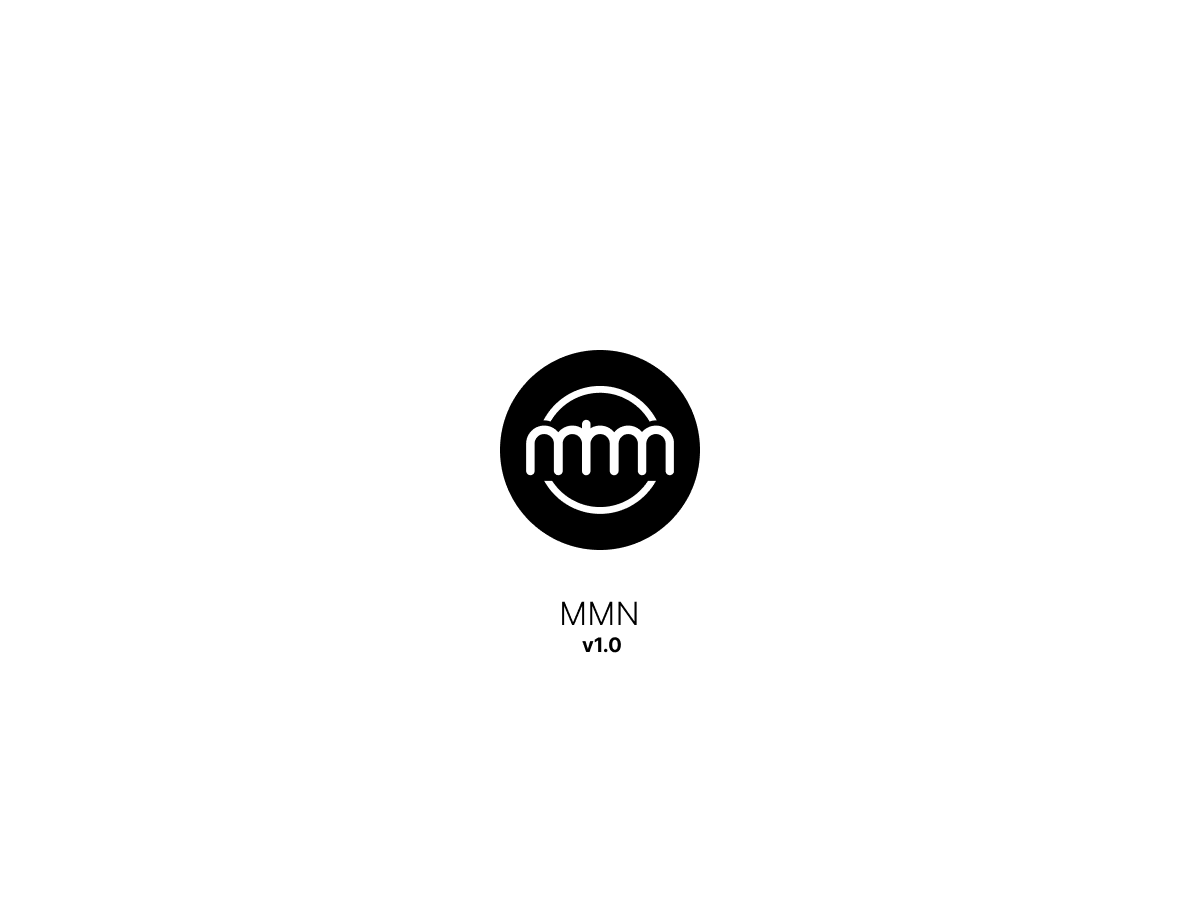
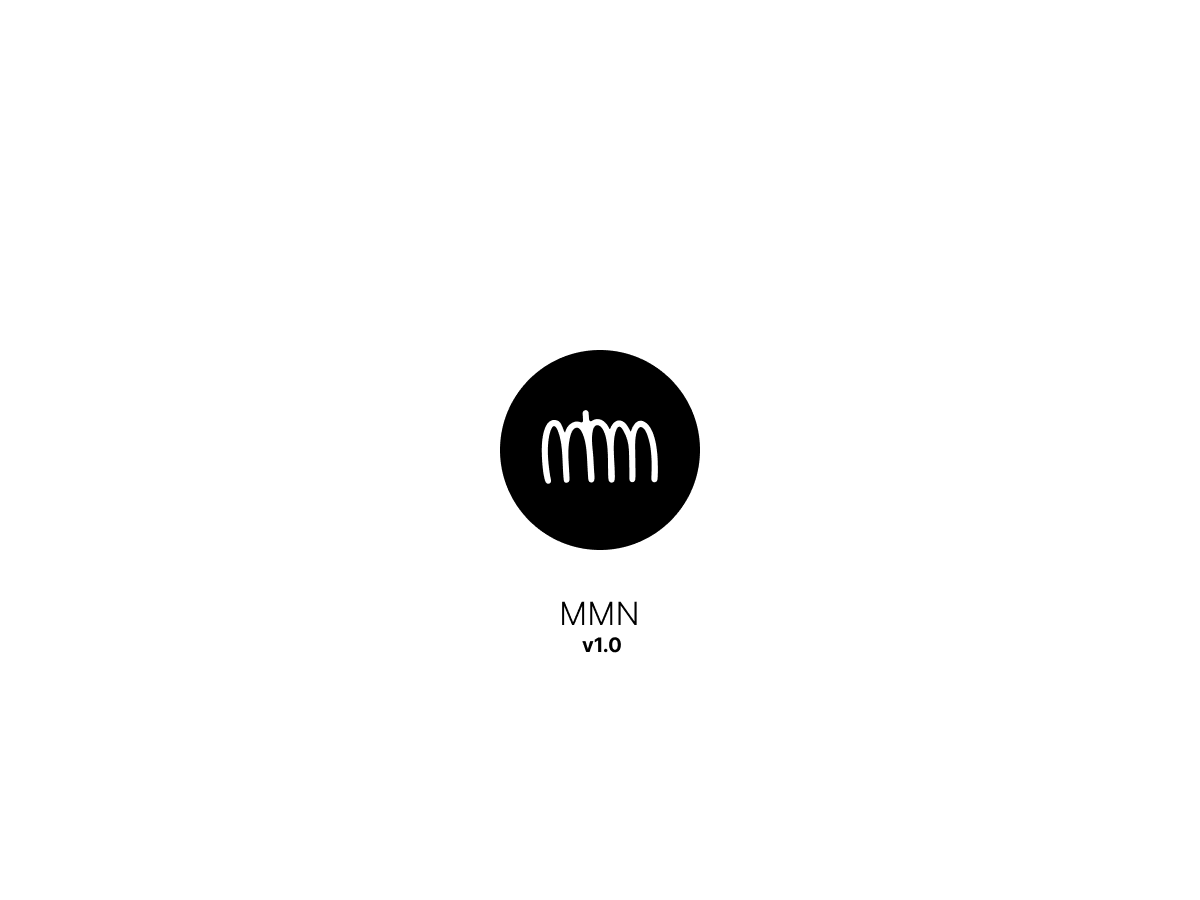
about me: finished

Changed region(s): [[0.4317, 0.4044, 0.5858, 0.5911]]

diff --git a/themes/mmn/assets/css/drop-down.css b/themes/mmn/assets/css/drop-down.css
@@ -1,0 +1,41 @@
+.drop-down-header {
+  display: flex;
+  align-items: center;
+  justify-content: space-between;
+  padding: 8px 0;
+  cursor: pointer;
+}
+
+.drop-down-icon {
+  position: relative;
+  display: block;
+  width: 16px;
+  height: 16px;
+}
+
+.drop-down-icon::before,
+.drop-down-icon::after {
+  content: "";
+  display: block;
+  background-color: var(--color-dark);
+  position: absolute;
+}
+
+.drop-down-icon::before {
+  width: 100%;
+  height: 1px;
+  top: 50%;
+  transform: translateY(-50%);
+}
+
+.drop-down-icon::after {
+  width: 1px;
+  height: 100%;
+  left: 50%;
+  transform: translateX(-50%);
+}
+
+drop-down.active .drop-down-icon::after,
+drop-down:not(.active) .drop-down-content {
+  display: none;
+}

diff --git a/themes/mmn/assets/js/drop-down.js b/themes/mmn/assets/js/drop-down.js
@@ -1,0 +1,24 @@
+class DropDown extends HTMLElement {
+  constructor() {
+    super();
+  }
+
+  get header() {
+    return this._header || null;
+  }
+
+  set header(ele) {
+    this._header = ele;
+    ele.addEventListener("click", this.clickEvent.bind(this));
+  }
+
+  clickEvent() {
+    this.classList.toggle("active");
+  }
+
+  connectedCallback() {
+    this.header = this.querySelector("[data-header]");
+  }
+}
+
+customElements.define("drop-down", DropDown);

diff --git a/themes/mmn/assets/css/about-me.css b/themes/mmn/assets/css/about-me.css
@@ -1,0 +1,21 @@
+.about-me-intro-extra-content {
+  margin-top: 40px;
+}
+
+.about-me-intro-info-items {
+  display: flex;
+  flex-direction: column;
+  gap: 20px;
+}
+
+.about-me-intro-interests-items {
+  display: flex;
+  flex-wrap: wrap;
+  gap: 6px 12px;
+}
+
+.about-me-services-dropdowns {
+  display: flex;
+  flex-direction: column;
+  gap: 8px;
+}

diff --git a/themes/mmn/style.css b/themes/mmn/style.css
@@ -165,6 +165,10 @@ body {
   object-fit: cover;
 }
 
+.ratio-16\:9 {
+  --ratio: 56.25%;
+}
+
 .justify\:end {
   justify-content: flex-end;
 }

diff --git a/themes/mmn/template-parts/parts/logo.php b/themes/mmn/template-parts/parts/logo.php
@@ -1,11 +1,3 @@
-<svg width="60" height="53" viewBox="0 0 60 53" fill="none" xmlns="http://www.w3.org/2000/svg">
-  <g clip-path="url(#brand-logo)">
-  <path d="M49.51 39.2551C45.3805 45.7739 38.1953 50.0959 30.0346 50.0959C21.8739 50.0959 14.6903 45.7723 10.5608 39.2551H7.32312C11.751 47.4041 20.2723 52.9298 30.0346 52.9298C39.7969 52.9298 48.3182 47.4024 52.7477 39.2551H49.51ZM30.0346 0.00167228C20.0444 0.00167228 11.3543 5.78987 7.02148 14.2515C7.12804 14.2465 7.23296 14.2448 7.33952 14.2448C8.25099 14.2448 9.1264 14.4153 9.93296 14.7263C13.933 7.62732 21.4461 2.83558 30.0362 2.83558C38.6264 2.83558 46.1379 7.62732 50.1395 14.7246C50.9461 14.4137 51.8198 14.2431 52.7346 14.2431C52.8412 14.2431 52.9461 14.2465 53.0526 14.2498C48.7182 5.7882 40.028 0 30.0379 0L30.0346 0.00167228Z" fill="black"/>
-  <path d="M60.0754 23.8851V35.1773C60.0754 36.1403 59.3082 36.9228 58.3639 36.9228C57.8918 36.9228 57.4623 36.7272 57.1525 36.4112C56.8426 36.0952 56.6508 35.6588 56.6508 35.1773V23.8968C56.6508 22.8017 56.218 21.8103 55.518 21.088C54.8082 20.3574 53.8213 19.9026 52.7328 19.9026C52.6213 19.9026 52.5115 19.9076 52.4016 19.9176C50.3918 20.0882 48.8131 21.8052 48.8131 23.8968V35.1739C48.8131 36.1403 48.0459 36.9228 47.1 36.9228C46.6279 36.9228 46.1967 36.7272 45.8885 36.4112C45.5787 36.0952 45.3869 35.6588 45.3869 35.1756V23.8985C45.3869 21.6698 43.5951 19.8658 41.3967 19.9059C39.2393 19.9461 37.5508 21.8337 37.5508 24.0339V35.0937C37.5508 36.1035 36.7475 36.9228 35.7557 36.9228C35.2607 36.9228 34.8115 36.7171 34.4885 36.3861C34.1639 36.0567 33.9623 35.5986 33.9623 35.0937V23.8985C33.9623 21.6698 32.1705 19.8658 29.9721 19.9059C27.8148 19.9461 26.1262 21.8337 26.1262 24.0339V35.1706C26.1262 36.1386 25.3557 36.9244 24.4066 36.9244C23.9328 36.9244 23.5016 36.7288 23.1902 36.4112C22.877 36.0935 22.6852 35.6538 22.6852 35.1706V23.9002C22.6852 21.6949 20.9311 19.9076 18.7672 19.9076C16.6033 19.9076 14.8492 21.6966 14.8492 23.9002V35.0954C14.8492 36.1052 14.0459 36.9244 13.0557 36.9244C12.559 36.9244 12.1115 36.7188 11.7869 36.3878C11.4623 36.0584 11.2607 35.6003 11.2607 35.0954V23.9002C11.2607 21.8086 9.68361 20.0915 7.67377 19.921C7.56557 19.9109 7.4541 19.9059 7.34262 19.9059C6.25246 19.9059 5.26557 20.359 4.55738 21.093C3.85574 21.8136 3.42459 22.805 3.42459 23.9002V35.1806C3.42459 36.1437 2.65738 36.9261 1.71148 36.9261C1.23934 36.9261 0.809836 36.7305 0.5 36.4145C0.190164 36.0985 0 35.6621 0 35.1806V23.8885C0 22.036 0.659016 20.3423 1.75082 19.0349C2.78689 17.7943 4.21475 16.9032 5.83607 16.5587C6.32295 16.4551 6.82623 16.4016 7.34262 16.4016C7.85902 16.4016 8.35902 16.4551 8.84426 16.5587C10.4672 16.9032 11.8967 17.7943 12.9344 19.0365C12.9754 19.0867 13.0148 19.1368 13.0557 19.1853C13.0951 19.1352 13.1344 19.085 13.177 19.0365C14.523 17.4248 16.5295 16.4016 18.7672 16.4016C20.2148 16.4016 21.5656 16.8262 22.7016 17.5703V15.7679C22.7016 14.8032 23.4672 14.0208 24.4131 14.0208C24.8852 14.0208 25.3148 14.2164 25.6246 14.5324C25.9361 14.8484 26.1262 15.2847 26.1262 15.7679V17.5569C27.259 16.8229 28.6016 16.4016 30.0443 16.4016C32.2836 16.4016 34.2885 17.4248 35.6344 19.0365C35.6754 19.0867 35.7148 19.1368 35.7557 19.1853C35.7967 19.1352 35.8361 19.085 35.877 19.0365C37.2246 17.4248 39.2295 16.4016 41.4689 16.4016C43.7082 16.4016 45.7148 17.4231 47.0607 19.0365C47.0754 19.0516 47.0869 19.07 47.1016 19.085C47.1164 19.07 47.1279 19.0516 47.1426 19.0365C48.1787 17.7926 49.6082 16.9032 51.2328 16.5604C51.718 16.4568 52.2197 16.4032 52.7344 16.4032C53.2492 16.4032 53.7541 16.4568 54.241 16.5604C55.8639 16.9048 57.2902 17.796 58.3262 19.0365C59.418 20.344 60.077 22.0376 60.077 23.8901L60.0754 23.8851Z" fill="black"/>
-  </g>
-  <defs>
-  <clipPath id="brand-logo">
-  <rect width="60" height="53" fill="white"/>
-  </clipPath>
-  </defs>
+<svg xmlns="http://www.w3.org/2000/svg" data-name="logo" viewBox="0 0 442.79 304.61">
+  <path d="M189.44,70.93c.31,4,4.83,6.27,8.15,4.01,17.21-11.73,36.69-3.75,48.02,15.44.08.14,3.43,6.01,3.57,6.38,2.16,5.85,3.82-.6,5.73-4.41,11.77-23.51,33.64-26.36,49.61-1.21,2.77,4.35,4.81,8.84,7.33,13.03.51.85,1.06,2.71,2.06,1.9.38-.31.59-.73.77-1.27,7.08-22.25,23.55-41.72,46.29-22.75,26.7,22.28,32.52,84.16,33.22,116.43.31,14.37.83,36.79-.91,50.62-1.26,10.06-14.79,11.22-17.21,2.5-1.5-5.41-.89-8.36-.71-13.92.44-13.79.98-27.48.51-41.28-.11-3.07-.23-6.13-.38-9.19-.5-10.45-1.32-20.9-2.78-31.26-1.26-8.96-3.08-17.74-5.6-26.43-2.35-8.11-4.84-16.28-8.83-23.76-2.61-4.89-6.44-9.93-11.78-12.02-4.46-1.74-8.2.69-10.59,4.47-11.16,17.62-9.05,53.29-8.79,73.48.21,16.63.23,34.19.72,50.16.02.56,0,1.47,0,2.03-.1,4.84.47,14.98-.87,25.83-.95,7.7-11.38,10.57-15.91,3.51-2.39-3.71-1.51-18.54-1.57-26.84-.13-19.89-.51-40.21-1.17-60.06-.65-19.66-4.46-39.24-13.75-56.72-2.73-5.14-8.72-18.05-15.58-17.55-8.72.63-13.56,26.66-14.32,33.28-4.49,38.95,1.81,78.42,1.45,117.85-.03,3.41.22,13.34-7.03,14.99-10.69,2.44-12.08-8.77-12.39-13.78-2.39-38.93,3.52-111.02-16.43-144.26-9.73-16.21-24.68-17.86-29.45,2.71-5.88,25.38-.76,52.68,1,78.16,1.02,14.74,1.69,29.49,2.56,44.24.39,6.55,2.63,22.93-.48,28.41-3.9,6.86-13.48,5.64-16.01-1.63-1.78-5.12-2.02-21.56-2.46-27.41-2.56-34.04-1.55-74.58-13.41-106.73-2.79-7.57-9.51-23.2-18.96-22.8-13.83.58-18.52,19.93-20.96,30.78-2.53,11.26-3.82,22.78-4.32,34.3-.49,11.54-.2,23.09.37,34.62.58,11.56,1.44,23.11,2.09,34.67.2,3.57.38,7.14.53,10.72.07,1.67.12,3.34.17,5.01.08,2.68.56,5.04-.51,7.65-2.35,5.7-9.52,8.39-14.33,3.86-1.66-1.56-1.81-3.76-2.18-6.01-.04-.25-.52-4.1-.56-4.34-4.48-43.7-.83-94.21-14.97-136.09-12.1-35.81-22.53-16.7-27.72,8-7.95,37.83-3.42,82.03,2.5,120.08,1.09,7.01,7,20.87-3.81,23.26-6.22,1.37-9.72-3.84-11.38-9.13-8.53-27.27-11.28-85.93-8.78-114.65,1.89-21.7,9.2-69.75,39.79-65.41,18.21,2.58,20.38,21.73,26.56,34.87.26.56.43,1.26,1.12,1.57.73.33,1.56-.2,1.74-.98,4.6-19.86,24.65-37.11,45.59-29.11l.09.04c3.66,1.42,7.57-1.44,7.33-5.36l-1.28-20.92c-.02-.31-.02-.63.02-.93,1.16-10.2,14.13-11.95,17.43-2.55.14.41.22.84.25,1.27l1.62,20.66Z"/>
 </svg>

diff --git a/themes/mmn/template-parts/content/content-page-about-me.php b/themes/mmn/template-parts/content/content-page-about-me.php
@@ -1,0 +1,99 @@
+<section class="about-me-hero section">
+  <div class="site-width">
+    <div class="sxs">
+      <div class="sxs-item">
+        <h1 class="h1"><?php echo get_the_title(); ?></h1>
+      </div>
+    </div>
+  </div>
+</section>
+
+<?php 
+  get_template_part( 'template-parts/sections/about-me-intro' );
+?>
+
+<?php if ( has_post_thumbnail( get_the_ID() ) ) : ?>
+  <section class="about-me-image section">
+    <div class="site-width">
+      <div class="ratio-container ratio-16:9">
+        <?php echo wp_get_attachment_image( get_post_thumbnail_id(), 'large', false, array(
+          'sizes' => '(max-width: 979px) 100vw, (max-width: 1899px) 50vw, 950px'
+        ) ); ?>
+      </div>
+    </div>
+  </section>
+<?php endif; ?>
+
+<?php 
+  $freelance_title = get_field( 'section_freelance_title' );
+  $freelance_content = get_field( 'section_freelance_content' );
+
+  if ( $freelance_title || $freelance_content ) : ?>
+  <section class="about-me-freelance section">
+    <div class="site-width">
+      <div class="sxs">
+        <div class="sxs-item">
+          <?php if ( $freelance_title ) : ?>
+            <h2 class="h2"><?php echo $freelance_title ?></h2>
+          <?php endif; ?>
+        </div>
+
+        <div class="sxs-item">
+          <?php if ( $freelance_content ) : ?>
+            <div class="rte">
+              <?php echo $freelance_content ?>
+            </div>
+          <?php endif; ?>
+        </div>
+      </div>
+    </div>
+  </section>
+<?php endif; ?>
+
+
+<?php 
+  $services_title = get_field( 'section_services_title' );
+  $dropdown_path = 'section_services_dropdown_';
+?>
+
+<section class="about-me-services section">
+  <div class="site-width">
+    <div class="sxs">
+      <div class="sxs-item">
+        <?php if ( $services_title ) : ?>
+          <h2 class="h2"><?php echo $services_title ?></h2>
+        <?php endif; ?>
+      </div>
+
+      <div class="about-me-services-dropdowns sxs-item">
+      <?php 
+        for ($i = 1; $i < 7; $i++) {
+          $label = get_field( $dropdown_path . $i . '_label' );
+          $content = get_field( $dropdown_path . $i . '_content' );
+          if ( $label && $content ) : ?>
+            <drop-down>
+              <p data-header class="drop-down-header">
+                <span class="drop-down-label h3"><?php echo $label ?></span>
+                <span class="drop-down-icon"></span>
+              </p>
+              <div class="drop-down-content rte-small"><?php echo $content ?></div>
+            </drop-down>
+          <?php endif;
+          }
+        ?>
+      </div>
+    </div>
+  </div>
+</section>
+
+<?php if ( get_field( 'bottom_image' ) ) : ?>
+  <section class="about-me-image section">
+    <div class="site-width">
+      <div class="ratio-container ratio-16:9">
+        <?php echo wp_get_attachment_image( get_field( 'bottom_image' ), 'large', false, array(
+          'sizes' => '(max-width: 979px) 100vw, (max-width: 1899px) 50vw, 950px'
+        ) ); ?>
+      </div>
+    </div>
+  </section>
+<?php endif; ?>

diff --git a/themes/mmn/functions.php b/themes/mmn/functions.php
@@ -47,14 +47,6 @@ function add_excerpts()
 }
 add_action('init', 'add_excerpts');
 
-function register_styles()
-{
-  wp_register_style( 'front-page', get_theme_file_uri( 'assets/css/front-page.css' ) );
-  wp_register_style( 'content-page-hero', get_theme_file_uri( 'assets/css/content-page-hero.css' ) );
-  wp_register_style( 'content-page-posts', get_theme_file_uri( 'assets/css/content-page-posts.css' ) );
-}
-add_action('init', 'register_styles');
-
 function header_styles() 
 {
   wp_enqueue_style( 'reset', get_theme_file_uri( 'assets/css/reset.css' ) );
@@ -62,28 +54,27 @@ function header_styles()
   wp_enqueue_style( 'footer', get_theme_file_uri( 'assets/css/footer.css' ) );
   wp_enqueue_style( 'style', get_theme_file_uri( 'style.css' ) );
   
-  if ( get_post()->ID === get_page_by_path( 'om-mig' )->ID ) {
-    wp_enqueue_style( 'about', get_theme_file_uri( 'about.css' ) );
-  }
+  if ( get_post() ) {
+    if ( get_post()->ID === get_page_by_path( 'om-mig' )->ID ) {
+      wp_enqueue_style( 'about-me', get_theme_file_uri( 'assets/css/about-me.css' ) );
+      wp_enqueue_style( 'drop-down', get_theme_file_uri( 'assets/css/drop-down.css' ) );
+    }
 
-  if ( is_front_page() ) {
-    wp_enqueue_style( 'front-page', get_theme_file_uri( 'front-page.css' ) );
-    wp_enqueue_style( 'content-page-posts', get_theme_file_uri( 'content-page-posts.css' ) );
-  }
+    if ( is_front_page() ) {
+      wp_enqueue_style( 'front-page', get_theme_file_uri( 'assets/css/front-page.css' ) );
+      wp_enqueue_style( 'content-page-posts', get_theme_file_uri( 'assets/css/content-page-posts.css' ) );
+    }
   
-  if ( is_front_page() || get_post()->ID === get_page_by_path( 'kontakt' )->ID ) {
-    wp_enqueue_style( 'content-page-hero', get_theme_file_uri( 'content-page-hero.css' ) );
+    if ( is_front_page() || get_post()->ID === get_page_by_path( 'kontakt' )->ID ) {
+      wp_enqueue_style( 'content-page-hero', get_theme_file_uri( 'assets/css/content-page-hero.css' ) );
+    }
   }
 }
 add_action('wp_enqueue_scripts', 'header_styles');
 
-function footer_styles() 
-{
-}
-add_action('get_footer', 'footer_styles');
-
 function footer_scripts() 
 {
   wp_enqueue_script( 'mobile-menu', get_theme_file_uri( 'assets/js/mobile-menu.js' ), array(), "1.0", TRUE );
+  wp_enqueue_script( 'drop-down', get_theme_file_uri( 'assets/js/drop-down.js' ), array(), "1.0", TRUE );
 }
 add_action('get_footer', 'footer_scripts');

diff --git a/themes/mmn/template-parts/sections/about-me-intro.php b/themes/mmn/template-parts/sections/about-me-intro.php
@@ -1,27 +1,24 @@
-<section class="about-hero section">
-  <div class="site-width">
-    <div class="sxs">
-      <div class="sxs-item">
-        <h1 class="h1"><?php echo get_the_title(); ?></h1>
-      </div>
-    </div>
-  </div>
-</section>
-
 <?php 
   $birthdate = new DateTime( '1996-08-01' );
   $now = new DateTime();
   $age = $now->diff( $birthdate );
 ?>
 
-<section class="about-intro section">
+<section class="about-me-intro section">
   <div class="site-width">
     <div class="sxs">
-      <div class="about-intro-info-items sxs-item">
+      <div class="about-me-intro-info-items sxs-item">
         <div class="info-item">
           <p class="h4">Alder</p>
           <p class="info-item-content"><?php echo $age->y ?></p>
         </div>
+        
+        <?php if ( get_field( 'section_intro_location' ) ) : ?>
+          <div class="info-item">
+            <p class="h4">Lokation</p>
+            <p class="info-item-content"><?php echo get_field( 'section_intro_location' ) ?></p>
+          </div>
+        <?php endif; ?>
         
         <?php if ( get_field( 'section_intro_education' ) ) : ?>
           <div class="info-item">
@@ -43,7 +40,7 @@
         ?>
           <div class="info-item">
             <p class="h4">Interesser</p>
-            <div class="info-item-content about-intro-interests-items">
+            <div class="info-item-content about-me-intro-interests-items">
               <?php 
                 $interests = explode( '/', $interests );
                 $count = 0;
@@ -60,12 +57,12 @@
       </div>
 
       <div class="sxs-item">
-        <div class="about-intro-content rte">
+        <div class="about-me-intro-content rte">
           <?php the_content(); ?>
         </div>
 
         <?php if ( get_field( 'section_intro_extra_content' ) ) : ?>
-          <div class="about-intro-extra-content rte-small">
+          <div class="about-me-intro-extra-content rte-small">
             <?php the_field( 'section_intro_extra_content' ) ?>
           </div>
         <?php endif; ?>

diff --git a/themes/mmn/page.php b/themes/mmn/page.php
@@ -6,7 +6,7 @@
   }
 
   if ( get_post()->ID === get_page_by_path( 'om-mig' )->ID ) {
-    get_template_part( 'template-parts/content/content-page-about' );
+    get_template_part( 'template-parts/content/content-page-about-me' );
   }
 
   get_footer();
